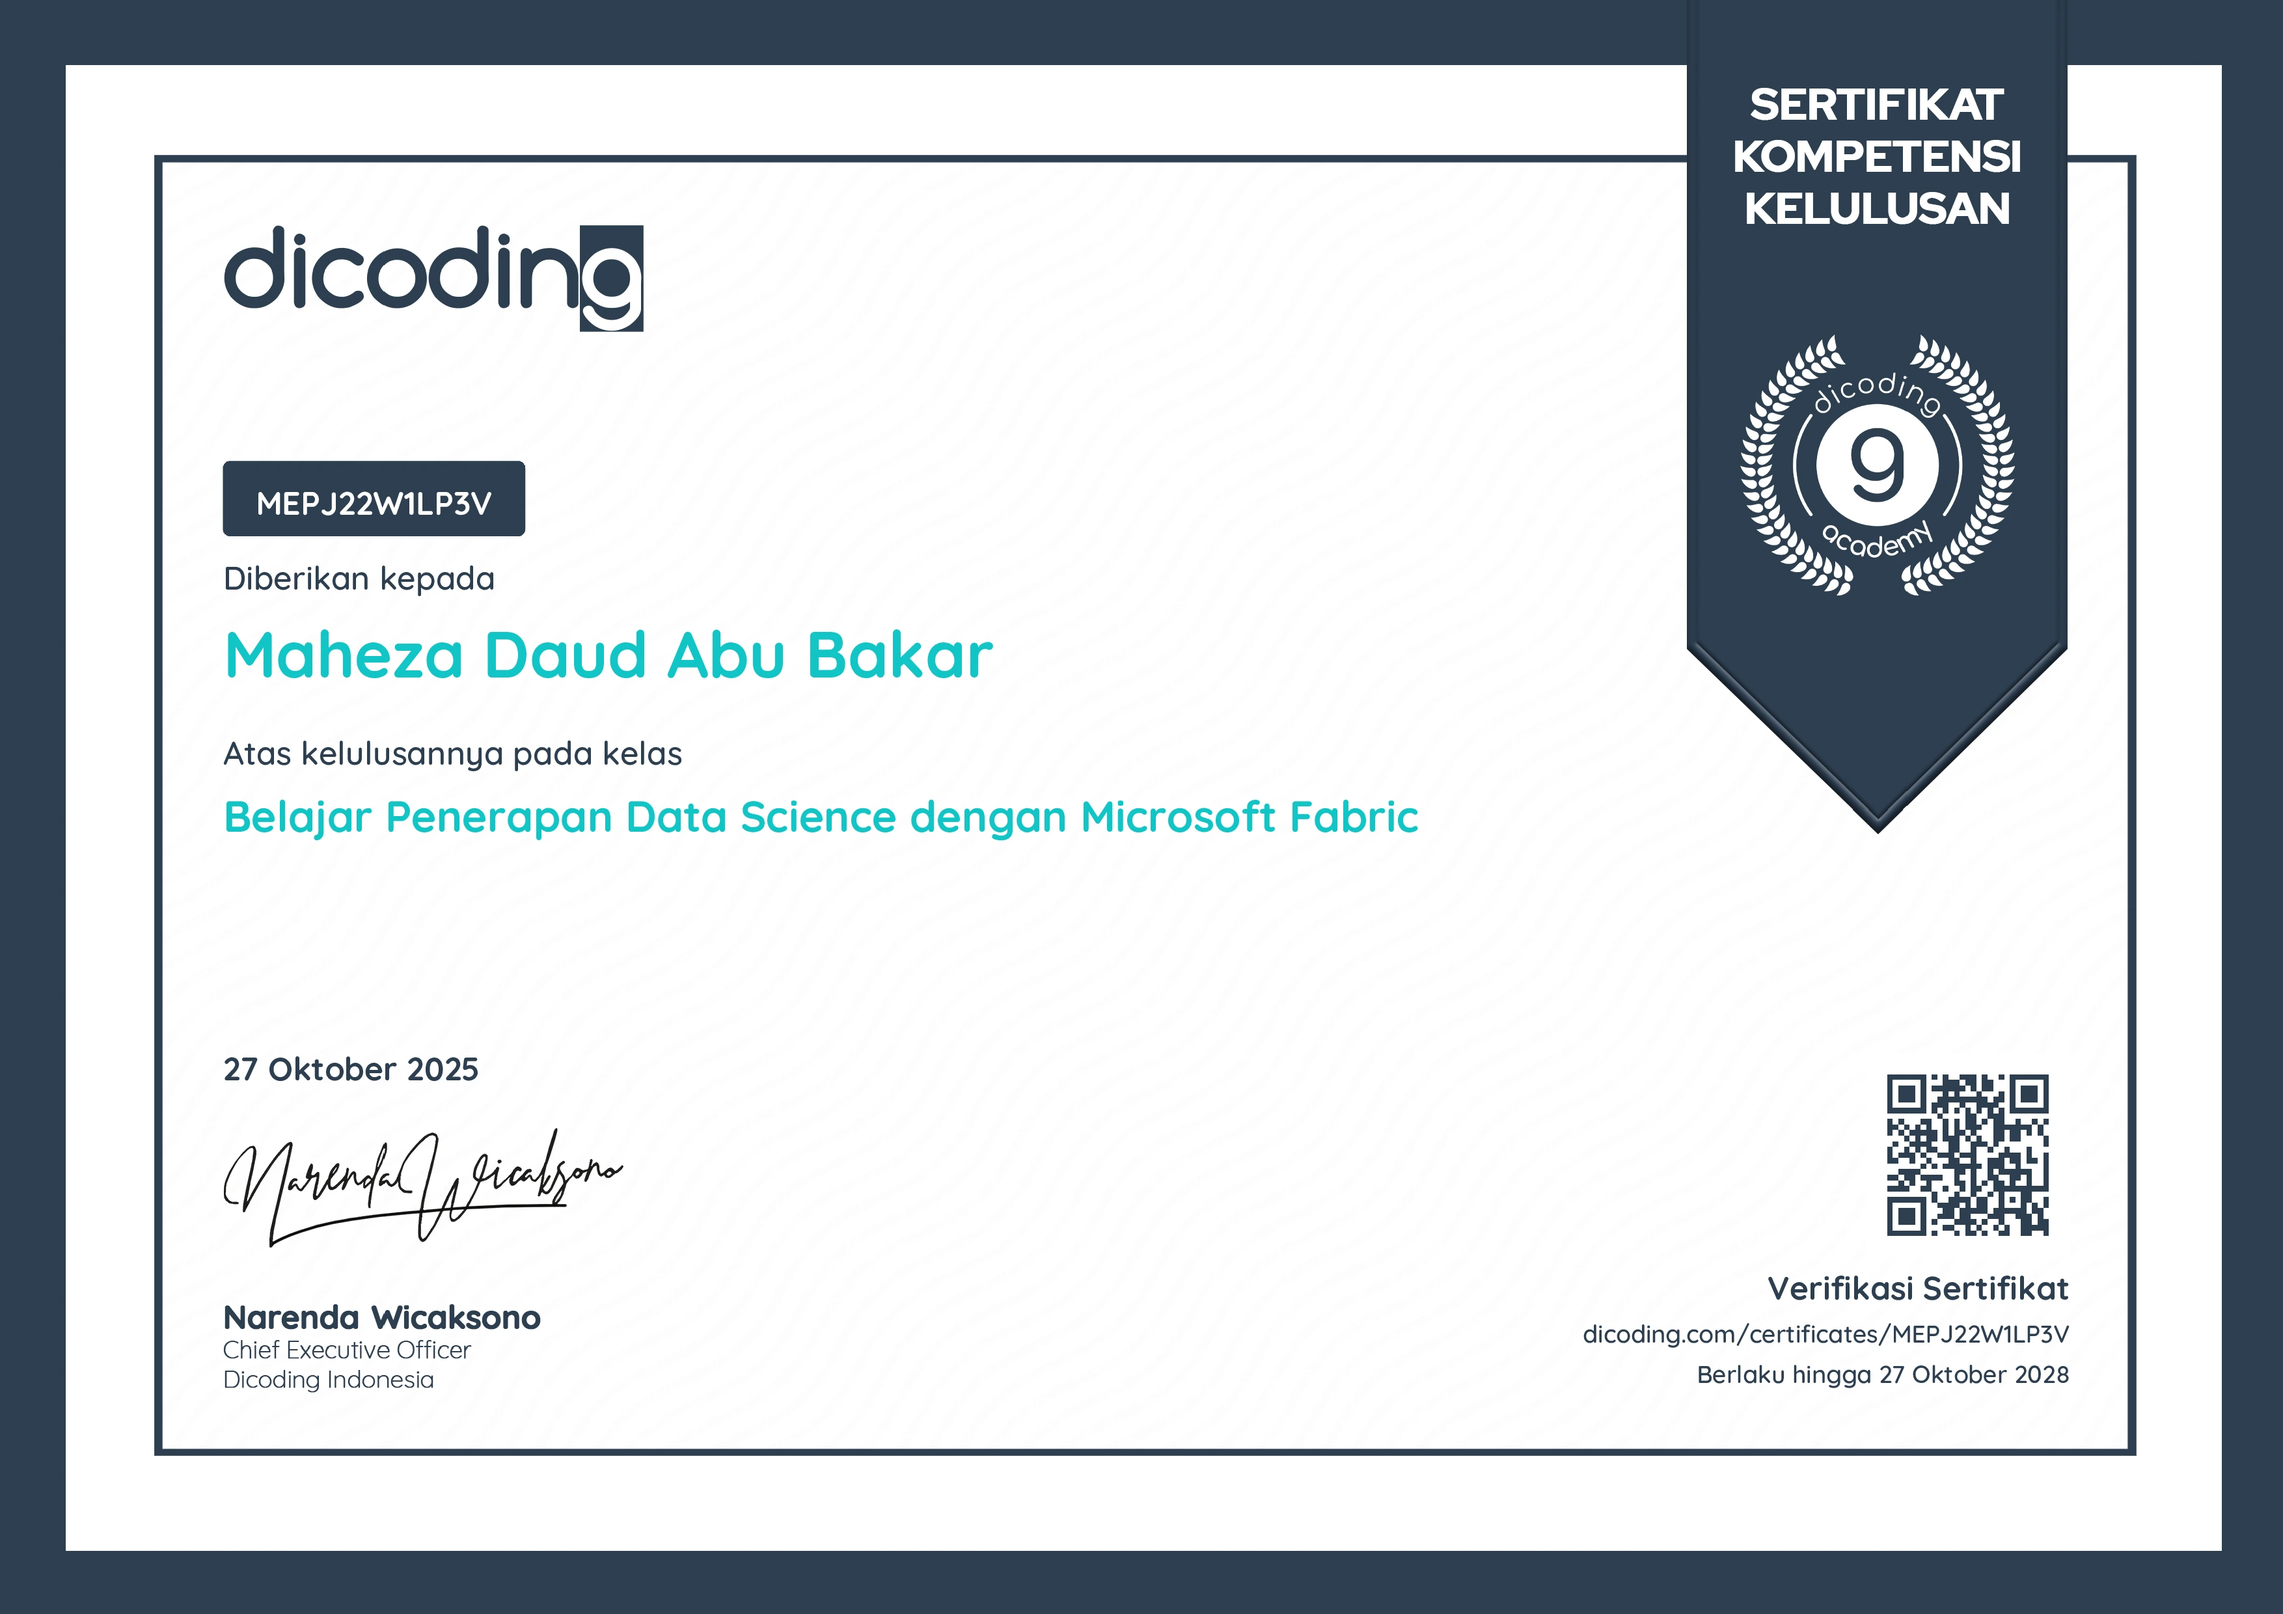
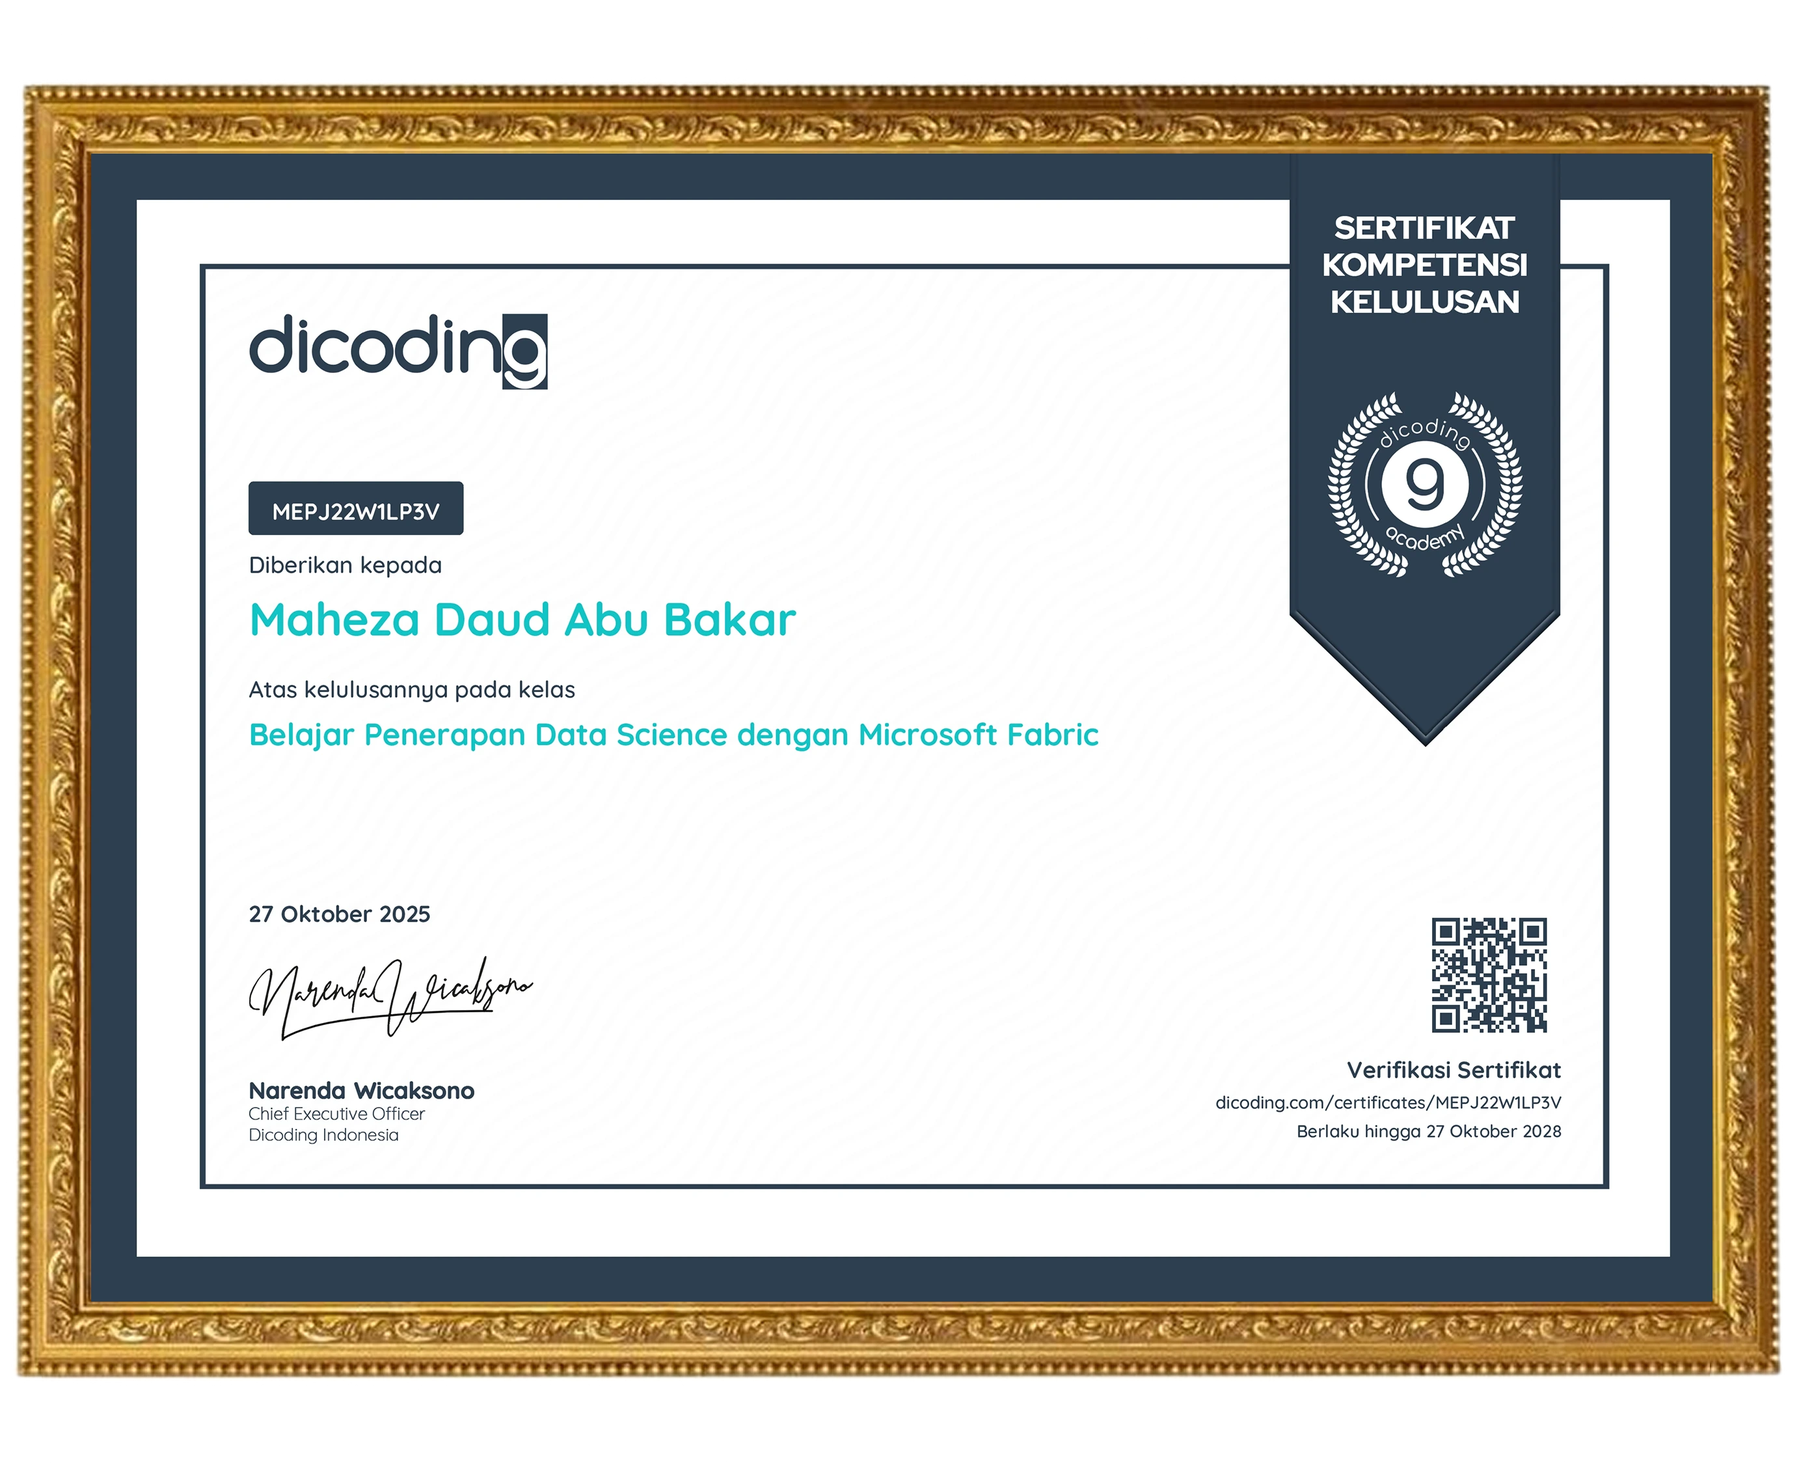
AI lagi

diff --git a/index.html b/index.html
@@ -1073,7 +1073,63 @@
             </a>
           </div>
         </div>
+        <div class="cert-panel">
+          <div class="cert-text-panel">
+            <h3 class="cert-label">ARCHIVE // BOOTCAMP</h3>
+            <h1 class="cert-title">DICODING<br />GRADUATE</h1>
+            <p class="cert-desc">
+              Eksplorasi komprehensif dalam menerapkan siklus hidup Data Science
+              menggunakan platform analitik skala enterprise. Sertifikasi ini
+              memperkuat kapabilitas saya dalam memanfaatkan Microsoft Fabric
+              untuk pengelolaan data terintegrasi, mulai dari rekayasa data
+              (data engineering) hingga pemodelan prediktif. Fondasi strategis
+              untuk membangun ekosistem data berskala besar guna menghasilkan
+              insight bisnis yang berdampak nyata.
+            </p>
+          </div>
 
+          <div class="cert-frame-wrapper">
+            <img
+              src="sertifikat-ds.webp"
+              alt="Sertifikat DICODING"
+              class="frame-asset"
+            />
+          </div>
+
+          <div class="cert-meta-panel">
+            <div class="meta-item">
+              <span class="meta-label">// CREDENTIAL ID</span>
+              <span class="meta-value">MEPJ22W1LP3V</span>
+            </div>
+            <div class="meta-item">
+              <span class="meta-label">// ISSUED BY</span>
+              <span class="meta-value">Dicoding Indonesia</span>
+            </div>
+            <div class="meta-item">
+              <span class="meta-label">// ACQUIRED SKILLS</span>
+              <span class="meta-value"
+                >Data Science • Microsoft Fabric • Data Engineering • Predictive
+                Analytics</span
+              >
+            </div>
+
+            <a
+              href="https://www.dicoding.com/certificates/MEPJ22W1LP3V"
+              target="_blank"
+              class="verify-btn"
+            >
+              VERIFY AUTHENTICITY
+              <svg viewBox="0 0 24 24" class="btn-arrow">
+                <path
+                  d="M5 12H19M19 12L12 5M19 12L19"
+                  stroke="currentColor"
+                  stroke-width="2"
+                  stroke-linecap="square"
+                />
+              </svg>
+            </a>
+          </div>
+        </div>
         <div class="cert-panel">
           <div class="cert-text-panel">
             <h3 class="cert-label">ARCHIVE // ACHIEVEMENT</h3>
